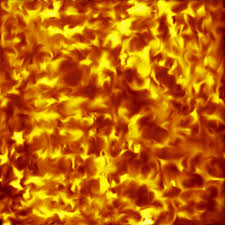
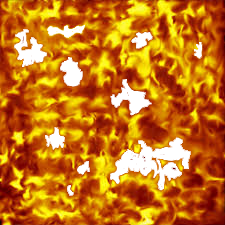
Sky box

diff --git a/Trabalho 3/main.cpp b/Trabalho 3/main.cpp
@@ -38,6 +38,7 @@ int dificuldade = 1;                              //variavel para controle de di
 int indPlacar = 0;                                //variavel para controlar o indice do vetor do placar
 bool mouseDown = false;
 bool fullscreen = false;
+float rotatesky = 0;
 glcTexture *textureManager;
 bool inteira[11]; //sabe se cada cidade ta inteira e na ultima posi�ao se alguma ainda existe
 float clok = 1;   //tempo entre os misseis
@@ -52,6 +53,7 @@ char nome[20];
 Modelo *fundo = new Modelo("terreno.ply", true);
 Modelo *cidade = new Modelo("house3d.ply", false);
 Modelo *cannon = new Modelo("cannon.ply", false);
+Modelo *sky = new Modelo("sphere.ply", true);
 float pos = 0;
 float rotationX = 0.0, rotationY = 0.0;
 Camera cam;
@@ -108,7 +110,6 @@ void drawModel(Modelo *m)
     float maxZ = m->getHeight();
     for (int i = 0; i < m->getTamFaces(); i++)
     {
-        glFrontFace(GL_CCW);
         //setMaterial();
         glBegin(GL_POLYGON);
         if (!gouraud)
@@ -292,7 +293,7 @@ void display()
         glLoadIdentity();
         if (ortho)
         {
-            glOrtho(-100.0, 300, -100.0, 125, -9000.0, 9000.0);
+            glOrtho(-100.0, 300, -100.0, 125, -900000.0, 900000.0);
             gluLookAt(0.0, 0.0, -540, 0.0, 0.0, -541, 0.0, 1.0, 0.0);
         }
         else
@@ -305,6 +306,20 @@ void display()
         }
         glEnable(GL_DEPTH_TEST); // Habilita Z-buffer
         glEnable(GL_CULL_FACE);  // Habilita Backface-Culling
+
+        /******SKY*******/
+        glPushMatrix();
+        glFrontFace(GL_CW);
+        textureManager->Bind(4);
+        textureManager->Update();
+        int scalesky = 100;
+        glScalef(scalesky, scalesky, scalesky);
+        glRotatef(rotatesky,0,1,0);
+        drawModel(sky);
+        textureManager->Disable();
+        glFrontFace(GL_CCW);
+        glPopMatrix();
+        /****************/
         glEnable(GL_LIGHTING);
         /****Fundo****/
         glPushMatrix();
@@ -319,6 +334,7 @@ void display()
         /************/
 
         //teste->draw(jogadorx, -jogadory,1.0,0.0,0.0);
+
         /*****   CIDADES   *****/
         //setMaterial_house();
         textureManager->Bind(2);
@@ -532,15 +548,20 @@ void keyboardPress(unsigned char key, int x, int y)
 
 void init()
 {
+    glFrontFace(GL_CCW);
     float camPosition[3] = {99.0, 11.0, -540.0};
     glutSetCursor(GLUT_CURSOR_FULL_CROSSHAIR);
-    glClearColor(0.0, 1.0, 0.0, 0.0);
+    glClearColor(0.0, 0.0, 1.0, 0.0);
     glMatrixMode(GL_PROJECTION);
     glLoadIdentity();
     glOrtho(-100.0, 300, -100.0, 125, -9000.0, 9000.0);
     glMatrixMode(GL_MODELVIEW);
     glEnable(GL_LIGHTING);
     glEnable(GL_LIGHT0);
+
+    glEnable(GL_ALPHA_TEST); // O alpha test descarta fragmentos dependendo de uma comparação (abaixo)
+   glAlphaFunc(GL_GREATER, 0.9); // Info: https://www.opengl.org/sdk/docs/man2/xhtml/glAlphaFunc.xml
+
     glColorMaterial(GL_FRONT, GL_DIFFUSE);
     glEnable(GL_NORMALIZE);
     glShadeModel(GL_SMOOTH);
@@ -548,12 +569,17 @@ void init()
 
     textureManager = new glcTexture();            // Criação do arquivo que irá gerenciar as texturas
    textureManager->SetNumberOfTextures(5);       // Estabelece o número de texturas que será utilizado
-   textureManager->SetWrappingMode(GL_REPEAT);
+   //textureManager->SetWrappingMode(GL_REPEAT);
+   glTexParameteri( GL_TEXTURE_2D, GL_TEXTURE_WRAP_T, GL_REPEAT );
+   glTexParameteri( GL_TEXTURE_2D, GL_TEXTURE_WRAP_S, GL_REPEAT );
+   textureManager->SetColorMode(GL_REPLACE);
+   textureManager->SetMinFilterMode(GL_NEAREST);
 
     textureManager->CreateTexture("./grass.png", 0);
     textureManager->CreateTexture("./Cannon.png", 1);
     textureManager->CreateTexture("./wood.png", 2);
     textureManager->CreateTexture("./missilebody.png", 3);
+    textureManager->CreateTexture("./Clouds.png", 4);
 
     glutIgnoreKeyRepeat(1);
     cam.Init();
@@ -741,6 +767,8 @@ void idle()
     }
     else
     {
+        rotatesky+=0.1;
+        if(rotatesky==360)rotatesky=0;
         jogadorx = (float)(mousex / 2 - 100);
         jogadory = (float)(-1 * mousey / 2 + 125);
         /***** MISSEIS *****/
